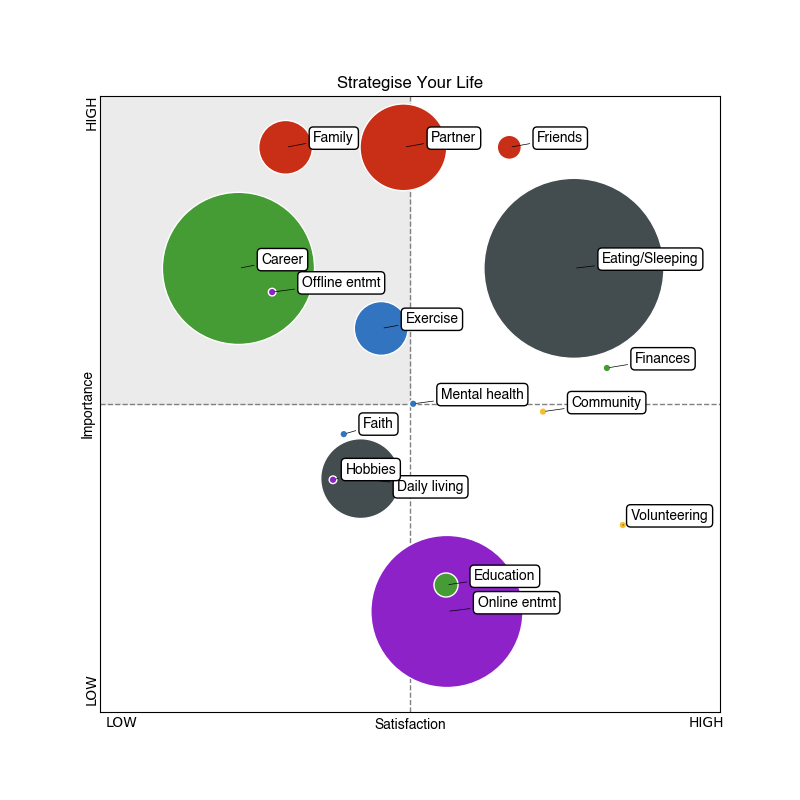
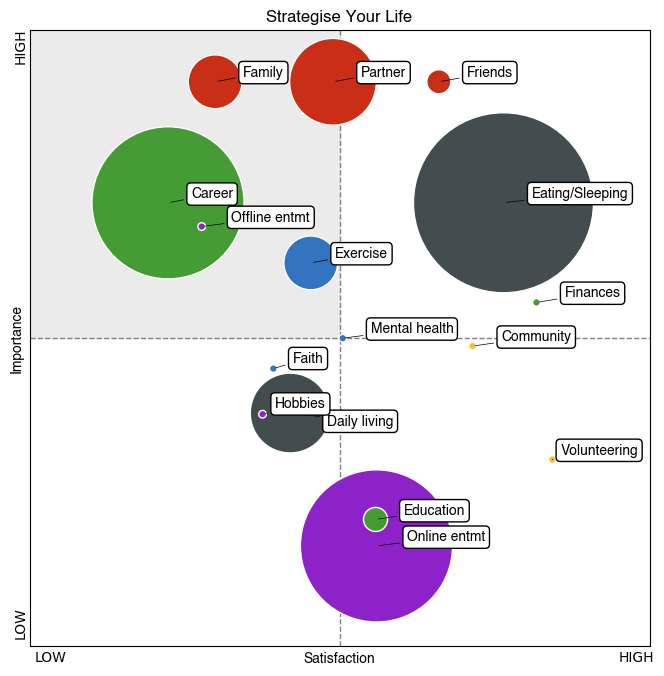
cosmetic clean up

diff --git a/website/templates/home.html b/website/templates/home.html
@@ -35,4 +35,12 @@
 
 {% block visual_content %}
 <img src="../static/visual.png" alt="">
+<div>
+  <ul>
+    <li>Top right: Keep spending time on these.</li> 
+    <li>Top left: Need more focus urgently.</li> 
+    <li>Bottom right: When you have time focus here.</li> 
+    <li>Bottom left: Make sure time is not being wasted here.</li> 
+  </ul>
+</div>
 {% endblock %}

diff --git a/website/visuals.py b/website/visuals.py
@@ -87,4 +87,4 @@ def CreateVisual():
   ax.set_xticks([])
   ax.set_yticks([])
 
-  plt.savefig('website/static/visual.png') 
+  plt.savefig('website/static/visual.png', bbox_inches='tight') 
